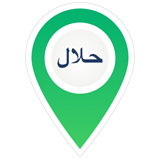
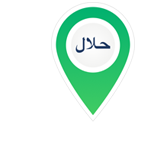
Adding slider component, updating location image pin to be smaller.

Changed region(s): [[0.1875, 0.0312, 0.8438, 0.9375]]

diff --git a/App/src/components/Slider/Slider.js b/App/src/components/Slider/Slider.js
@@ -1,0 +1,113 @@
+/**
+ * Sample React Native App
+ * https://github.com/facebook/react-native
+ *
+ * @format
+ * @flow
+ */
+
+import React, { Component } from "react";
+import { Text, View } from "react-native";
+import Carousel, {
+  ParallaxImage,
+  Pagination
+} from "react-native-snap-carousel";
+import { Dimensions } from "react-native";
+import styles from "./styles.js";
+const { width: screenWidth } = Dimensions.get("window");
+
+class Slider extends Component {
+  constructor(props) {
+    super(props);
+    this.state = {
+      images: [
+        {
+          id: "WpIAc9by5iU",
+          thumbnail:
+            "https://images.unsplash.com/photo-1514933651103-005eec06c04b?ixlib=rb-1.2.1&ixid=eyJhcHBfaWQiOjEyMDd9&auto=format&fit=crop&w=1934&q=80",
+          title: "Led Zeppelin - Stairway To Heaven"
+        },
+        {
+          id: "sNPnbI1arSE",
+          thumbnail:
+            "https://images.unsplash.com/photo-1528605248644-14dd04022da1?ixlib=rb-1.2.1&ixid=eyJhcHBfaWQiOjEyMDd9&auto=format&fit=crop&w=1350&q=80",
+          title: "Eminem - My Name Is"
+        },
+        {
+          id: "VOgFZfRVaww",
+          thumbnail:
+            "https://images.unsplash.com/photo-1466978913421-dad2ebd01d17?ixlib=rb-1.2.1&ixid=eyJhcHBfaWQiOjEyMDd9&auto=format&fit=crop&w=1267&q=80",
+          title: ""
+        }
+      ],
+      activeSlide: 0
+    };
+  }
+
+  async componentDidMount() {}
+
+  _renderItem({ item, index }, parallaxProps) {
+    return (
+      <View removeClippedSubviews={true} style={styles.item}>
+        <ParallaxImage
+          source={{ uri: item.thumbnail }}
+          containerStyle={styles.imageContainer}
+          style={styles.image}
+          parallaxFactor={0.6}
+          {...parallaxProps}
+        />
+        {/* <Text style={styles.title} numberOfLines={2}>
+          {item.title}
+        </Text> */}
+      </View>
+    );
+  }
+
+  get pagination() {
+    const { images, activeSlide } = this.state;
+    return (
+      <Pagination
+        dotsLength={images.length}
+        activeDotIndex={activeSlide}
+        // containerStyle={{ backgroundColor: "rgba(0, 0, 0, 0.75)" }}
+        dotStyle={{
+          width: 10,
+          height: 10,
+          borderRadius: 5,
+          marginHorizontal: 8
+          // backgroundColor: "rgba(255, 255, 255, 0.92)"
+        }}
+        inactiveDotStyle={
+          {
+            // Define styles for inactive dots here
+          }
+        }
+        inactiveDotOpacity={0.4}
+        inactiveDotScale={0.6}
+      />
+    );
+  }
+
+  shouldComponentUpdate() {
+    return false;
+  }
+
+  render() {
+    return (
+      <React.Fragment>
+        <Carousel
+          sliderWidth={screenWidth}
+          sliderHeight={screenWidth}
+          itemWidth={screenWidth - 30}
+          data={this.state.images}
+          renderItem={this._renderItem}
+          hasParallaxImages={true}
+          onSnapToItem={index => this.setState({ activeSlide: index })}
+        />
+        {this.pagination}
+      </React.Fragment>
+    );
+  }
+}
+
+export default Slider;

diff --git a/App/src/containers/Details/Details.js b/App/src/containers/Details/Details.js
@@ -19,9 +19,11 @@ import {
 } from "native-base";
 import MapDetails from "../../components/MapDetails/MapDetails";
 import BusinessHours from "../../components/BusinessHours/BusinessHours";
-import { Col, Grid } from "react-native-easy-grid";
+import Slider from "../../components/Slider/Slider";
 import apiConsumer from "../../util/apiConsumer";
 import styles from "./styles.js";
+
+// Image which appears at the to (restaurant photo).
 const imageUrl = require("./static/restaurantdemo.jpeg");
 
 class Details extends Component {
@@ -137,7 +139,8 @@ class Details extends Component {
         </Header>
         <Content scrollIndicatorInsets={{ right: 1 }}>
           {/* <View style={styles.imageWrapper}> */}
-          <Image style={styles.image} source={imageUrl} />
+          {/* <Image style={styles.image} source={imageUrl} /> */}
+          <Slider />
           {/* </View> */}
 
           <View style={styles.view}>

diff --git a/App/src/components/Slider/styles.js b/App/src/components/Slider/styles.js
@@ -1,0 +1,21 @@
+import { StyleSheet, Dimensions, Platform } from "react-native";
+const { width: screenWidth } = Dimensions.get("window");
+
+const styles = StyleSheet.create({
+  item: {
+    width: screenWidth - 30,
+    height: screenWidth - 30
+  },
+  imageContainer: {
+    flex: 1,
+    marginBottom: Platform.select({ ios: 0, android: 1 }), // Prevent a random Android rendering issue
+    backgroundColor: "white",
+    borderRadius: 8
+  },
+  image: {
+    ...StyleSheet.absoluteFillObject,
+    resizeMode: "cover"
+  }
+});
+
+export default styles;

diff --git a/App/src/containers/Details/styles.js b/App/src/containers/Details/styles.js
@@ -59,7 +59,7 @@ const styles = StyleSheet.create({
     // borderColor: 'red'
   },
   title: {
-    marginTop: 10,
+    marginTop: 0,
     marginBottom: 0
   },
   subTitle: {
